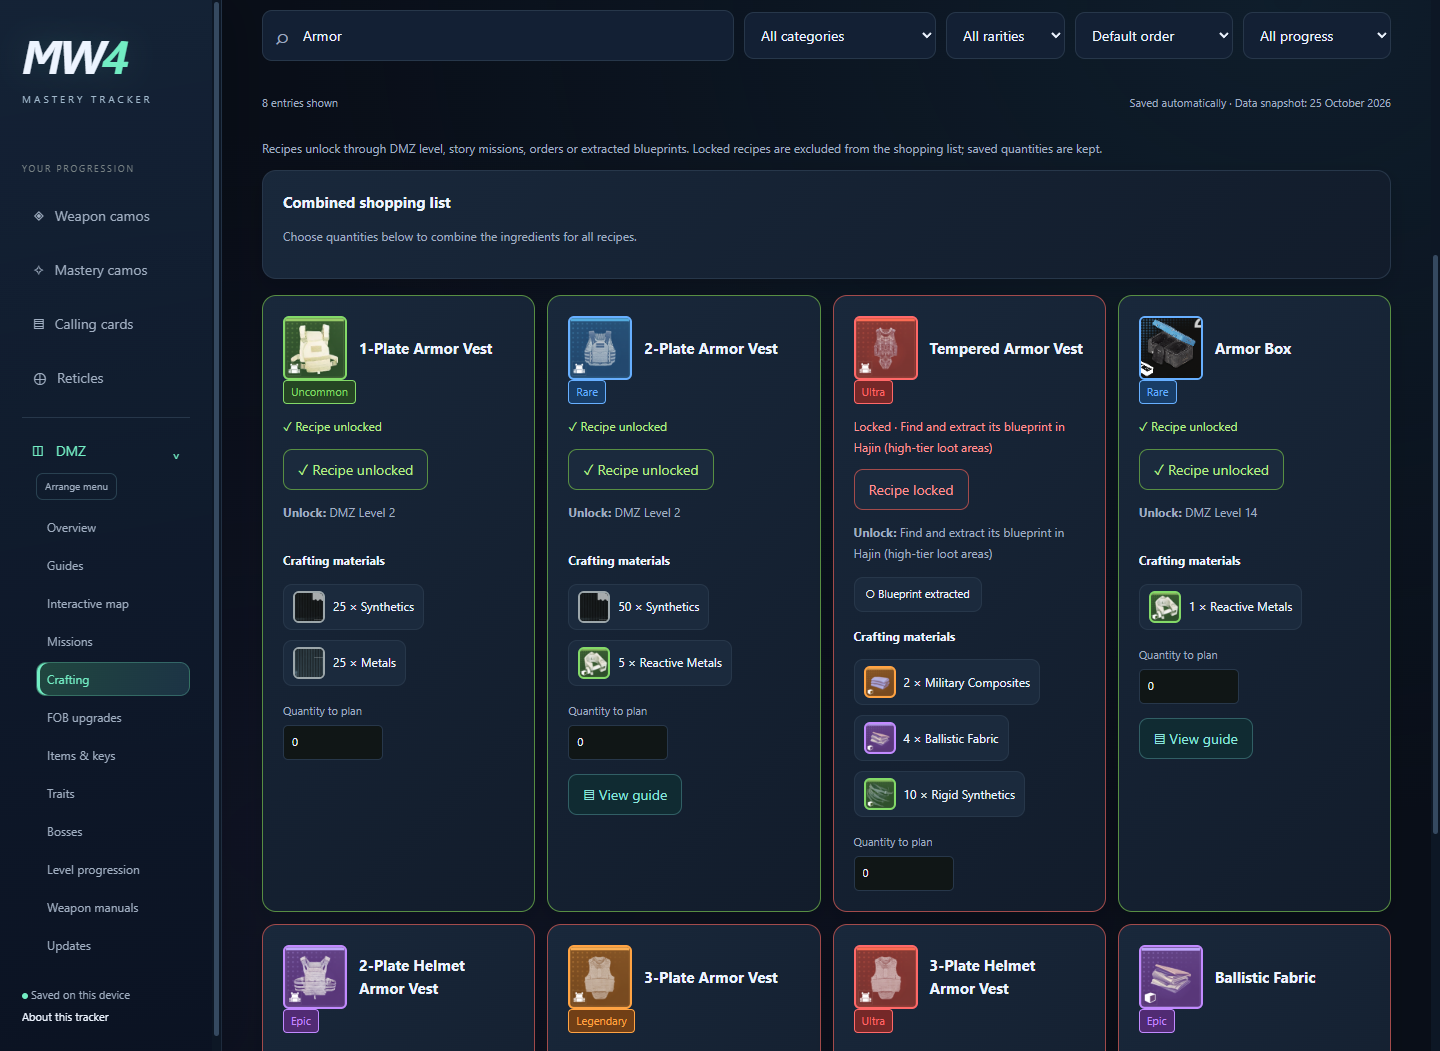
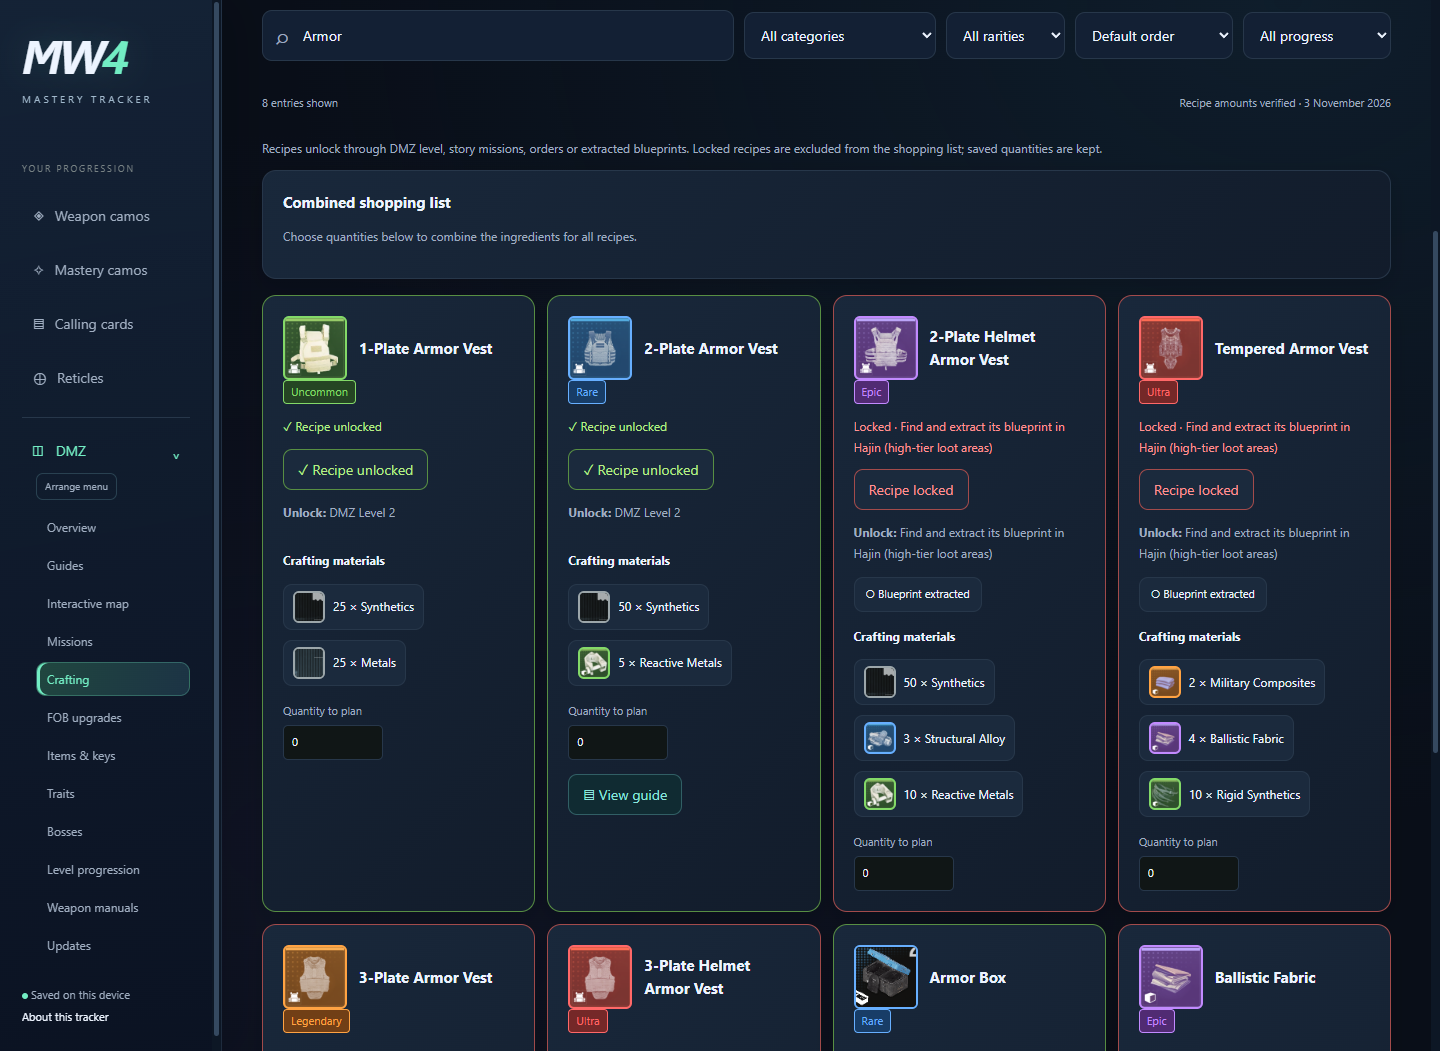
Verify all 95 crafting recipes against in-game menus (1.1.15)

diff --git a/README.md b/README.md
@@ -32,7 +32,7 @@ No account required. Your progress stays on your PC.
 - **Keep camo progress connected.** Completing a later camo automatically ticks its prerequisites. Multiplayer and DMZ challenge routes share the same completion. The main total counts only weapon camos. Account-wide mastery camos and War Spoils have separate counts in the Mastery camos tab.
 - **Find your sight picture.** Track 520 reticles across 40 optics with images, named unlocks, ADS kill challenges, and automatic prerequisite completion.
 - **Track War Spoils separately.** Open Mastery camos for a dedicated 33-weapon section, its own completion count, and linked weapon-manual controls.
-- **Plan your next craft.** Check recipe unlocks, required materials, and a combined shopping list. Track weapon manuals, extracted blueprints, and FOB upgrades.
+- **Plan your next craft.** Browse 95 recipe material lists verified against the in-game crafting menus on 3 November 2026. Check unlocks, required amounts per item, and a combined shopping list. Track weapon manuals, extracted blueprints, and FOB upgrades.
 - **Know what you have—and what you need.** Track item and key quantities, filter by rarity, and look up available material locations and key instructions.
 - **Build a loot map with your squad.** Explore Hajin with searchable layer filters, loot and boss presets, ingredient search areas, and personal marker color filters. Draw routes and place colored pins or item markers. Export your map notes and merge maps shared by friends.
 - **Keep your progress protected.** Automatic backups run before in-app updates install. Restore a saved backup directly from the Help menu.
